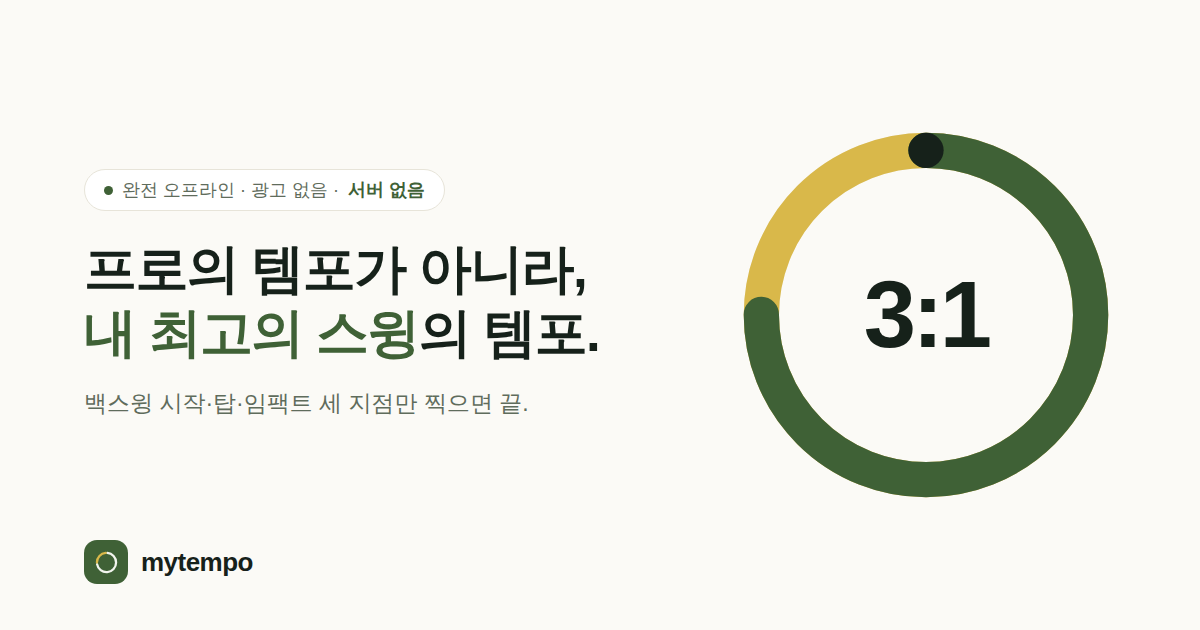
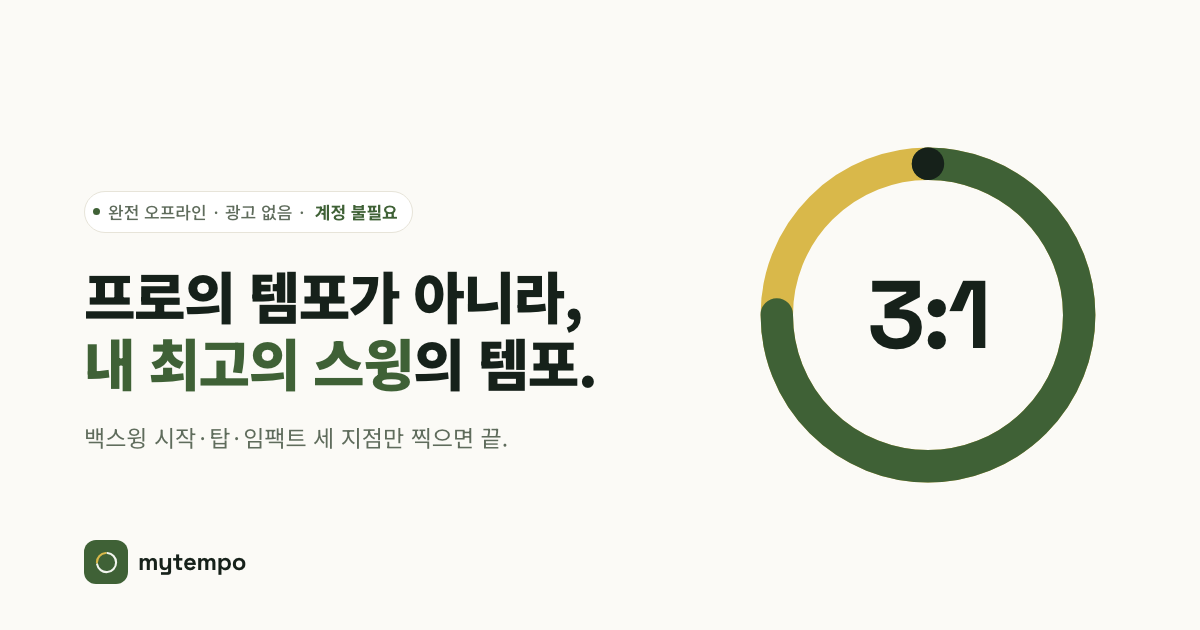
design(landing): 앱·SNS 감도 기준에 맞춰 정리 — 중복 섹션·예시값·줄표·OG (ko·en)
SNS-피드-감도-가이드 · BCML·Woodgrain §4("말을 줄이는 태도") 대조.

- '기능' 섹션 삭제 — 카드 3장 중 2장이 '사용법' 2단계와 같은 문장이었다.
  거기에만 있던 기준 리듬(3:1 · 2.5:1 · 3.5:1)은 사용법 아래 한 문장으로 옮겼다.
  메뉴 '기능' 링크도 랜딩·약관·방침·OSS 8곳에서 뺐다. 3:1이 15px로 눌려 있던 카드도 같이 사라진다
- 링 캡션 0.75/0.25초(앱에 없는 예시값) → 1.00/0.33초(3:1 · 느긋하게, SNS 03과 같은 값)
- 줄표(—) 본문에서 삭제 (감도 가이드 §1-5). en 끊어치기 문장 2곳도 풀었다
- OG 이미지 다시 그림 — 2026-09-10 페이지에서 뺀 "서버 없음"이 공유 미리보기에 남아 있었고,
  워드마크·3:1이 Arial로 나왔다. 사이트 폰트로 렌더, en 페이지는 영어 OG(og-en.png)를 쓴다
- 섹션 라벨·히어로 배지는 그대로 — 감도 가이드 §6(작은 라벨은 창업자가 고른 것, 규칙으로 되살리지 않음)

diff --git a/en/index.html b/en/index.html
@@ -5,12 +5,12 @@
 <meta http-equiv="Content-Security-Policy" content="default-src 'self'; script-src 'self' 'sha256-woPlmpRkM1gqbswL9fDu/2VmFfqWz5HU817QuhK3Z4E=' 'sha256-KyHRJxmzaXodE8qSvsw2/BHRthdQx7RH0iosEl5xlU0='; style-src 'self' 'unsafe-inline'; img-src 'self' data:; font-src 'self'; connect-src 'self' https://qmpvnjoefkskmykwudxp.supabase.co; form-action 'self'; base-uri 'none'; object-src 'none';">
 <meta name="viewport" content="width=device-width, initial-scale=1">
 <title>mytempo — the tempo of your best swing</title>
-<meta name="description" content="Mark three points and the one swing of your life is saved as your own number. A fully offline golf tempo trainer — no account, no ads.">
+<meta name="description" content="Mark three points and the one swing of your life is saved as your own number. A fully offline golf tempo trainer with no account and no ads.">
 <meta property="og:title" content="mytempo — the tempo of your best swing">
 <meta property="og:description" content="Not a pro's tempo. Yours. Fully offline, no ads.">
 <meta property="og:type" content="website">
 <meta property="og:url" content="https://mytempo.co.kr/en/">
-<meta property="og:image" content="https://mytempo.co.kr/assets/og.png">
+<meta property="og:image" content="https://mytempo.co.kr/assets/og-en.png">
 <meta property="og:image:width" content="1200">
 <meta property="og:image:height" content="630">
 <meta property="og:locale" content="en_US">
@@ -48,7 +48,6 @@
     </a>
     <div class="nav-links">
       <a href="#how">How it works</a>
-      <a href="#features">Features</a>
       <a href="#trust">Privacy</a>
       <a href="#pricing">Pricing</a>
       <a href="#faq">FAQ</a>
@@ -67,8 +66,8 @@
   <div class="wrap">
     <div>
       <p class="hero-badge"><span class="dot"></span> Fully offline · No ads · <b>No account</b></p>
-      <h1>Not a pro's tempo&nbsp;—<br><em>the tempo of your best swing</em>.</h1>
-      <p class="lead">Mark three points — backswing start, top, impact — and the one swing of your life is saved as a number that belongs to you.</p>
+      <h1>Not a pro's tempo,<br><em>the tempo of your best swing</em>.</h1>
+      <p class="lead">Mark backswing start, top and impact, and the one swing of your life is saved as a number that belongs to you.</p>
 
       <form class="signup js-signup" id="signup" novalidate>
         <label for="email" style="position:absolute;left:-9999px">Email address</label>
@@ -120,7 +119,7 @@
   <div class="wrap">
     <p class="eyebrow">Why is nothing working today?</p>
     <h2 class="section-title">The biggest reason your swing<br>wanders is tempo drift.</h2>
-    <p class="section-sub">Feel alone won't fix it. No lesson bay, no video breakdown — you can start right now.</p>
+    <p class="section-sub">It's hard to fix by feel alone. You can start right now, without a lesson bay or a video breakdown.</p>
   </div>
 </section>
 
@@ -134,7 +133,7 @@
       <div class="step">
         <div class="idx">1</div>
         <h3>Register your swing</h3>
-        <p>Mark three points — backswing start, top, impact — and your own tempo ratio is worked out for you.</p>
+        <p>Mark backswing start, top and impact, and your own tempo ratio is worked out for you.</p>
         <div class="step-visual">
           <div style="width:100%">
             <div class="marks">
@@ -160,35 +159,7 @@
       </div>
 
     </div>
-  </div>
-</section>
-
-<section id="features">
-  <div class="wrap">
-    <p class="eyebrow">Features</p>
-    <h2 class="section-title">Three is enough</h2>
-    <p class="section-sub">Only what you need. We decided to leave the rest out.</p>
-    <div class="grid-4">
-      <div class="card">
-        <h3>Base rhythms</h3>
-        <p>Start by picking a named ratio — 3:1, 2.5:1 or 3.5:1.</p>
-      </div>
-      <div class="card card-feature">
-        <div>
-          <h3>Register your swing</h3>
-          <p>Mark backswing start, top and impact, and your tempo ratio is calculated automatically. Your number becomes the reference — not a pro's.</p>
-        </div>
-        <div>
-          <p class="display-number">3:1</p>
-          <div class="tempo-bar-demo"><div class="bs"></div><div class="ds"></div></div>
-          <p class="display-caption">Backswing 0.75s · downswing 0.25s</p>
-        </div>
-      </div>
-      <div class="card">
-        <h3>Practice screen</h3>
-        <p>A sound loops at the ratio you picked, until the rhythm is second nature.</p>
-      </div>
-    </div>
+    <p class="section-sub" style="margin-top:24px">Before you register, pick a named base rhythm (3:1, 2.5:1 or 3.5:1) and start practicing right away.</p>
   </div>
 </section>
 
@@ -216,8 +187,8 @@
         <div class="ring-center">3:1<small>your saved tempo</small></div>
       </div>
       <p class="ring-caption">
-        <span><i class="k-green"></i>Backswing 0.75s</span>
-        <span><i class="k-gold"></i>Downswing 0.25s</span>
+        <span><i class="k-green"></i>Backswing 1.00s</span>
+        <span><i class="k-gold"></i>Downswing 0.33s</span>
       </p>
     </div>
   </div>
@@ -235,11 +206,11 @@
       </div>
       <div class="trust-item">
         <span class="ic"><svg aria-hidden="true" viewBox="0 0 24 24"><path d="M4 6h16v12H4z"/><path d="m4 8 8 5 8-5"/></svg></span>
-        <p><b>No account.</b> No sign-up, no login. We don't even ask for an email.</p>
+        <p><b>No account.</b> You never sign up or log in, and we don't even ask for an email.</p>
       </div>
       <div class="trust-item">
         <span class="ic"><svg aria-hidden="true" viewBox="0 0 24 24"><circle cx="12" cy="12" r="8"/><path d="m6.5 6.5 11 11"/></svg></span>
-        <p><b>No ads.</b> No banners, no interstitials.</p>
+        <p><b>No ads.</b> There are no banners or full-screen ads.</p>
       </div>
       <div class="trust-item">
         <span class="ic"><svg aria-hidden="true" viewBox="0 0 24 24"><rect x="5" y="10" width="14" height="10" rx="2"/><path d="M8 10V7a4 4 0 0 1 8 0v3"/></svg></span>
@@ -301,7 +272,7 @@
       </details>
       <details>
         <summary>Is my practice history sent to a server?</summary>
-        <p>No. Your practice history and saved swings live only in your phone's storage and are never sent to a server. Delete the app and the data goes with it. We do collect anonymous usage statistics via PostHog to improve the app — see the <a href="/en/privacy/">privacy policy</a> for details.</p>
+        <p>No. Your practice history and saved swings live only in your phone's storage and are never sent to a server. Delete the app and the data goes with it. We do collect anonymous usage statistics via PostHog to improve the app. See the <a href="/en/privacy/">privacy policy</a> for details.</p>
       </details>
       <details>
         <summary>How accurate is the video analysis?</summary>
@@ -321,18 +292,18 @@
       </details>
       <details>
         <summary>Can I get a refund?</summary>
-        <p>Within 7 days of purchase you can request a withdrawal under Korean e-commerce law, though this may be limited since the feature unlocks immediately on payment. The app market's (Google Play, etc.) refund policy applies first — if that doesn't work, email contact@mytempo.co.kr.</p>
+        <p>Within 7 days of purchase you can request a withdrawal under Korean e-commerce law, though this may be limited since the feature unlocks immediately on payment. The app market's (Google Play, etc.) refund policy applies first. If that doesn't work, email contact@mytempo.co.kr.</p>
       </details>
       <details>
         <summary>Do I need to create an account?</summary>
-        <p>No. There's no account system, so there's no sign-up or login — just open the app and use it.</p>
+        <p>No. There's no account system, so there's no sign-up or login. Just open the app and use it.</p>
       </details>
       <details>
         <summary>If I switch phones, does my history come with me?</summary>
         <p>History is stored on your device, and the App doesn't move it for you. If you use your phone's built-in backup (Google or iCloud) or device-transfer tools, it may come along. You can also save your swings as a JSON file with "Export my data" in Settings, but the App can't import that file back yet.</p>
       </details>
       <details>
-        <summary>Found a bug — how do I report it?</summary>
+        <summary>How do I report a bug?</summary>
         <p>Email contact@mytempo.co.kr with what happened and a screenshot if you can. You can also reach us straight from the app via "Contact us" in Settings.</p>
       </details>
     </div>

diff --git a/index.html b/index.html
@@ -62,7 +62,6 @@
     </a>
     <div class="nav-links">
       <a href="#how">사용법</a>
-      <a href="#features">기능</a>
       <a href="#trust">프라이버시</a>
       <a href="#pricing">가격</a>
       <a href="#faq">FAQ</a>
@@ -186,36 +185,7 @@
       </div>
 
     </div>
-  </div>
-</section>
-
-<!-- ============ FEATURES ============ -->
-<section id="features">
-  <div class="wrap">
-    <p class="eyebrow">기능</p>
-    <h2 class="section-title">세 가지로 충분해요</h2>
-    <p class="section-sub">필요한 기능만 담았어요. 나머지는 넣지 않기로 했어요.</p>
-    <div class="grid-4">
-      <div class="card">
-        <h3>기준 리듬</h3>
-        <p>이름 붙은 비율 리듬(3:1 · 2.5:1 · 3.5:1) 중에서 고르는 것으로 시작해요.</p>
-      </div>
-      <div class="card card-feature">
-        <div>
-          <h3>내 스윙 등록</h3>
-          <p>백스윙 시작 · 탑 · 임팩트, 세 지점만 마킹하면 나만의 템포 비율이 자동으로 계산돼요. 프로의 숫자가 아니라 내 숫자가 기준이 돼요.</p>
-        </div>
-        <div>
-          <p class="display-number">3:1</p>
-          <div class="tempo-bar-demo"><div class="bs"></div><div class="ds"></div></div>
-          <p class="display-caption">백스윙 0.75s · 다운스윙 0.25s</p>
-        </div>
-      </div>
-      <div class="card">
-        <h3>연습 화면</h3>
-        <p>선택한 비율대로 반복되는 소리로, 몸이 리듬을 기억할 때까지 연습해요.</p>
-      </div>
-    </div>
+    <p class="section-sub" style="margin-top:24px">등록 전에는 이름 붙은 기준 리듬(3:1 · 2.5:1 · 3.5:1) 중에서 골라 바로 연습할 수 있어요.</p>
   </div>
 </section>
 
@@ -245,8 +215,8 @@
         <div class="ring-center">3:1<small>내가 등록한 템포</small></div>
       </div>
       <p class="ring-caption">
-        <span><i class="k-green"></i>백스윙 0.75초</span>
-        <span><i class="k-gold"></i>다운스윙 0.25초</span>
+        <span><i class="k-green"></i>백스윙 1.00초</span>
+        <span><i class="k-gold"></i>다운스윙 0.33초</span>
       </p>
     </div>
   </div>
@@ -333,7 +303,7 @@
       </details>
       <details>
         <summary>제 연습 기록도 서버로 전송되나요?</summary>
-        <p>아니요. 연습 기록과 등록한 스윙은 기기 내부 저장소에만 남고 서버로 전송되지 않아요. 앱을 지우면 기록도 함께 사라져요. 다만 서비스 개선을 위한 익명 사용 통계는 PostHog로 별도 수집돼요 — 자세한 내용은 <a href="/privacy/">개인정보처리방침</a>에서 확인하실 수 있어요.</p>
+        <p>아니요. 연습 기록과 등록한 스윙은 기기 내부 저장소에만 남고 서버로 전송되지 않아요. 앱을 지우면 기록도 함께 사라져요. 다만 서비스 개선을 위한 익명 사용 통계는 PostHog로 별도 수집돼요. 자세한 내용은 <a href="/privacy/">개인정보처리방침</a>에서 확인하실 수 있어요.</p>
       </details>
       <details>
         <summary>영상 분석이 정확한가요?</summary>

diff --git a/assets/style.css b/assets/style.css
@@ -346,35 +346,6 @@ h2.section-title { font-size: clamp(26px, 4vw, 40px); font-weight: 800; line-hei
 .wave i.hit { background: var(--gold); }
 
 
-/* ---------- Feature bento ---------- */
-/* 클래스 이름은 `grid-4`지만 카드는 3개다 — 2026-09-22에 "템포 구간 비교"(2026-08-23 폐기된
-   기능)를 걷어내면서 04번 카드가 빠졌다(T-85). 이름은 ko·en·CSS 3파일을 건드리게 돼 그대로 뒀다. */
-.grid-4 {
-  display: grid; grid-template-columns: 1fr 1fr;
-  grid-template-areas: "f2 f2" "f1 f3"; gap: 20px;
-}
-.grid-4 > .card:nth-child(1) { grid-area: f1; }
-.grid-4 > .card:nth-child(2) { grid-area: f2; }
-.grid-4 > .card:nth-child(3) { grid-area: f3; }
-.card { background: var(--surface); border: 1px solid var(--line); border-radius: var(--radius); padding: 28px 24px; }
-.card-feature { display: grid; grid-template-columns: 1.05fr 0.95fr; gap: 36px; align-items: center; padding: 36px; }
-.card h3 { font-size: 17px; font-weight: 700; margin-bottom: 10px; }
-.card p { font-size: 14px; color: var(--muted); margin: 0; }
-.card-feature h3 { font-size: 22px; }
-.card-feature p { font-size: 15px; }
-.display-number {
-  font-family: var(--font-display); font-size: clamp(40px, 6vw, 60px);
-  font-weight: 700; letter-spacing: -0.03em; color: var(--ink); line-height: 1;
-  margin: 18px 0 0;
-}
-.display-caption { font-size: 12px; color: var(--muted); margin: 8px 0 0; }   /* C-14 */
-.tempo-bar-demo {
-  margin-top: 14px; height: 16px; border-radius: 999px; background: var(--surface-2);
-  display: flex; overflow: hidden;
-}
-.tempo-bar-demo .bs { flex-basis: 75%; background: var(--green); }
-.tempo-bar-demo .ds { flex: 1; background: var(--gold); }
-
 /* ---------- Positioning statement (full-bleed band) ---------- */
 .difference { max-width: 820px; }
 .difference .statement { font-size: clamp(17px, 2.2vw, 21px); color: var(--band-muted); margin: 0 0 16px; }
@@ -464,8 +435,6 @@ footer .wrap { display: flex; flex-wrap: wrap; align-items: center; justify-cont
   .stats-strip .wrap { grid-template-columns: 1fr 1fr; gap: 28px 20px; }
   .steps { grid-template-columns: 1fr; }
   /* .trust-grid는 데스크톱부터 이미 2열이라 여기서 다시 선언할 필요가 없다 */
-  .grid-4 { grid-template-columns: 1fr; grid-template-areas: "f2" "f1" "f3"; }
-  .card-feature { grid-template-columns: 1fr; gap: 24px; }
   .price-grid { grid-template-columns: 1fr; }
   .nav-links { display: none; }
   section { padding: 72px 0; }

diff --git a/en/oss/index.html b/en/oss/index.html
@@ -28,7 +28,6 @@
       <span class="brand-word">mytempo</span>
     </a>
     <div class="nav-links">
-      <a href="/en/#features">Features</a>
       <a href="/en/#pricing">Pricing</a>
       <a href="/en/#trust">Privacy</a>
     </div>

diff --git a/en/privacy/index.html b/en/privacy/index.html
@@ -28,7 +28,6 @@
       <span class="brand-word">mytempo</span>
     </a>
     <div class="nav-links">
-      <a href="/en/#features">Features</a>
       <a href="/en/#pricing">Pricing</a>
       <a href="/en/#trust">Privacy</a>
     </div>

diff --git a/en/terms/index.html b/en/terms/index.html
@@ -28,7 +28,6 @@
       <span class="brand-word">mytempo</span>
     </a>
     <div class="nav-links">
-      <a href="/en/#features">Features</a>
       <a href="/en/#pricing">Pricing</a>
       <a href="/en/#trust">Privacy</a>
     </div>

diff --git a/oss/index.html b/oss/index.html
@@ -48,7 +48,6 @@
       <span class="brand-word">mytempo</span>
     </a>
     <div class="nav-links">
-      <a href="/#features">기능</a>
       <a href="/#pricing">가격</a>
       <a href="/#trust">프라이버시</a>
     </div>

diff --git a/privacy/index.html b/privacy/index.html
@@ -48,7 +48,6 @@
       <span class="brand-word">mytempo</span>
     </a>
     <div class="nav-links">
-      <a href="/#features">기능</a>
       <a href="/#pricing">가격</a>
       <a href="/#trust">프라이버시</a>
     </div>

diff --git a/terms/index.html b/terms/index.html
@@ -48,7 +48,6 @@
       <span class="brand-word">mytempo</span>
     </a>
     <div class="nav-links">
-      <a href="/#features">기능</a>
       <a href="/#pricing">가격</a>
       <a href="/#trust">프라이버시</a>
     </div>
